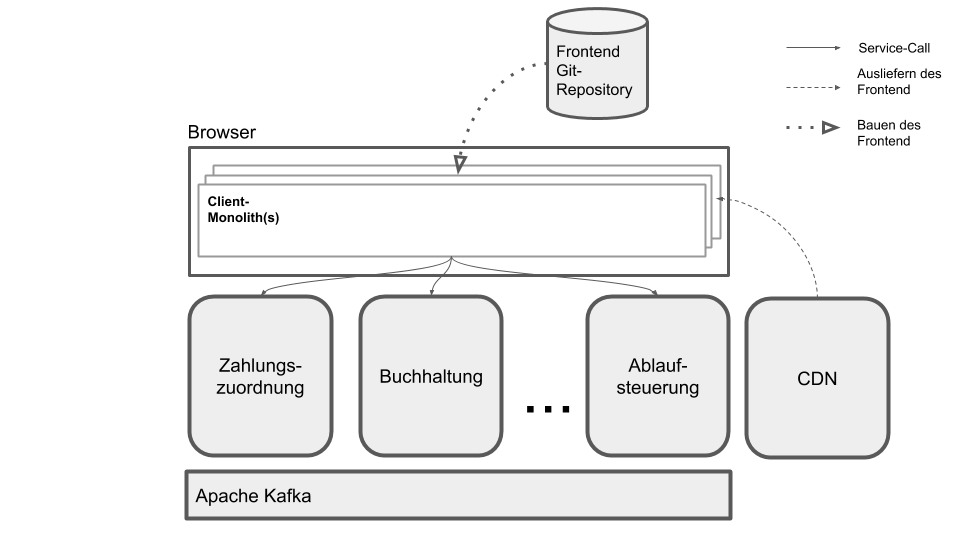
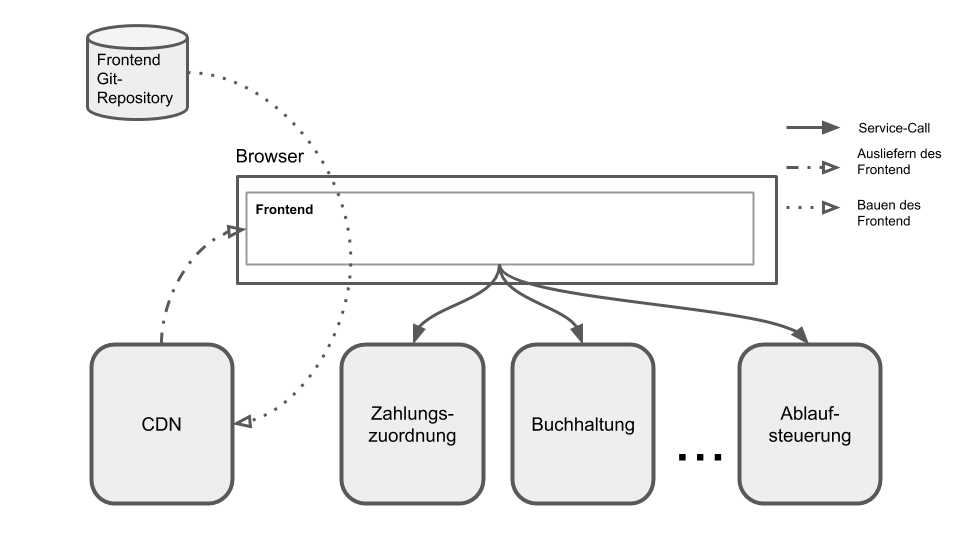
oop2020 (6)

diff --git a/public/oop2020/server-side-integration.html b/public/oop2020/server-side-integration.html
@@ -33,7 +33,7 @@
     <div class="item">Pattern 2: Server Side Integration</div>
     <div class="subitem"><i class="material-icons">arrow_right</i>Server Side Includes</div>
     <div class="subitem"><i class="material-icons">arrow_right</i>Edge Side Includes</div>
-    <div class="subitem"><i class="material-icons">arrow_right</i>Project Mosaic</div>
+    <div class="subitem"><i class="material-icons">arrow_right</i>Project Mosaic (www.mosaic9.org)</div>
 </div>
 
 <script>

diff --git a/public/oop2020/server-side-integration-2.html b/public/oop2020/server-side-integration-2.html
@@ -2,9 +2,9 @@
 
     #__0__ img {
         position: absolute;
-        top: 20%;
-        width: 70%;
-        height: 70%;
+        top: 15%;
+        width: 80%;
+        height: 80%;
     }
 
 </style>
@@ -12,7 +12,7 @@
 <div class="slidetitle">Server Side Integration</div>
 
 <div class="imgcontainer screen">
-    <img src="./img/server-side-integration-no-kafka.png">
+    <img src="./img/server-side-integration.png">
 </div>
 
 <script>

diff --git a/public/oop2020/monorepo.html b/public/oop2020/monorepo.html
@@ -12,7 +12,7 @@
 <div class="slidetitle">Build Time Integration<br>(Monorepo)</div>
 
 <div class="imgcontainer screen">
-    <img src="./img/monorepo-no-kafka.png">
+    <img src="./img/monorepo.png">
 </div>
 
 <script>

diff --git a/public/oop2020/polyrepo.html b/public/oop2020/polyrepo.html
@@ -12,7 +12,7 @@
 <div class="slidetitle">Build Time Integration<br>(Polyrepo)</div>
 
 <div class="imgcontainer screen">
-    <img src="./img/polyrepo-no-kafka.png">
+    <img src="./img/polyrepo.png">
 </div>
 
 <script>

diff --git a/public/oop2020/client-side-integration-2.html b/public/oop2020/client-side-integration-2.html
@@ -12,7 +12,7 @@
 <div class="slidetitle">Client Side Integration</div>
 
 <div class="imgcontainer screen">
-    <img src="./img/fx-no-kafka.png">
+    <img src="./img/client-side-integration.png">
 </div>
 
 <script>
